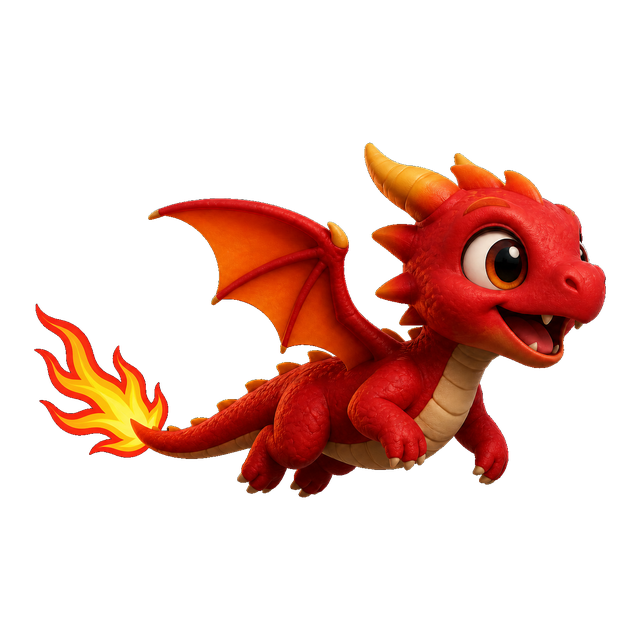
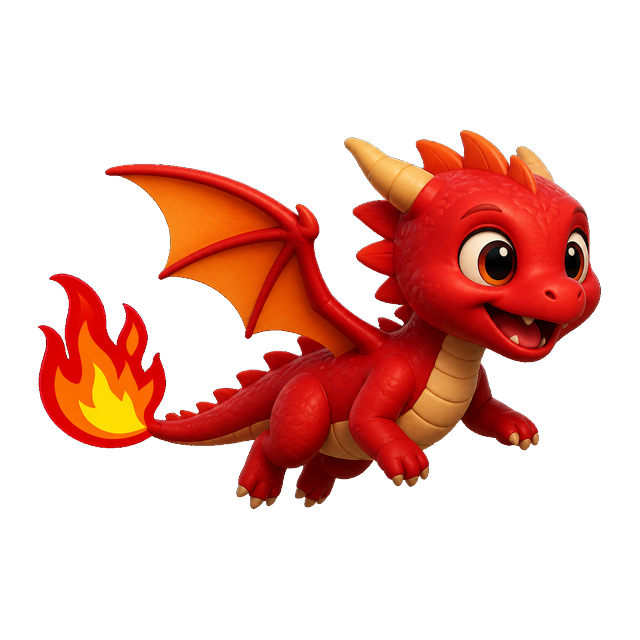
Cartoon cel-shaded tail flame on Fire dragon.

Changed region(s): [[0.0312, 0.1875, 0.9688, 0.8125]]

diff --git a/index.html b/index.html
@@ -1179,7 +1179,7 @@ bx.putImageData(cur,0,0);
 }
 var EYE_PUPILS={
   baby:[{cx:0.610,cy:0.452,pr:0.017},{cx:0.752,cy:0.435,pr:0.017}],
-  fire:[{cx:0.793,cy:0.416,pr:0.015}],
+  fire:[{cx:0.770,cy:0.412,pr:0.017},{cx:0.894,cy:0.411,pr:0.016}],
   ice:[{cx:0.746,cy:0.453,pr:0.018}],
   forest:[{cx:0.736,cy:0.445,pr:0.015}],
   shadow:[{cx:0.754,cy:0.451,pr:0.015}],
